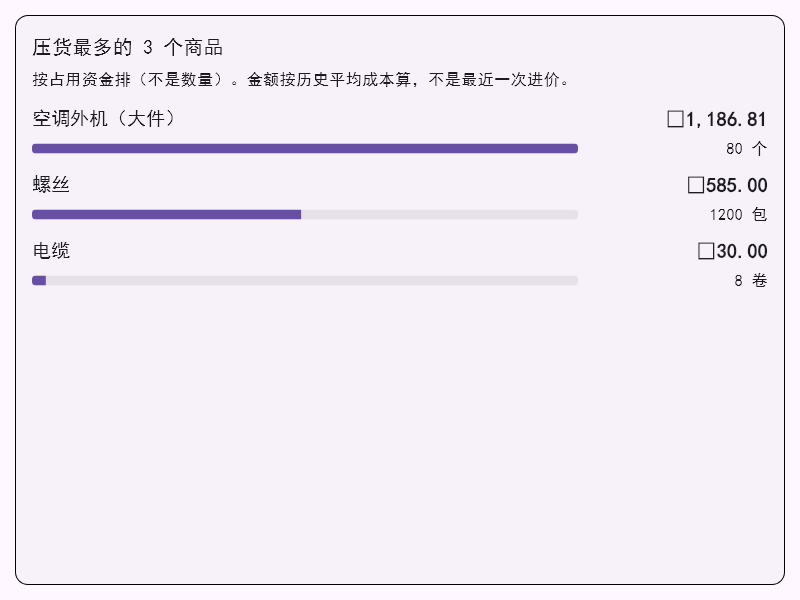
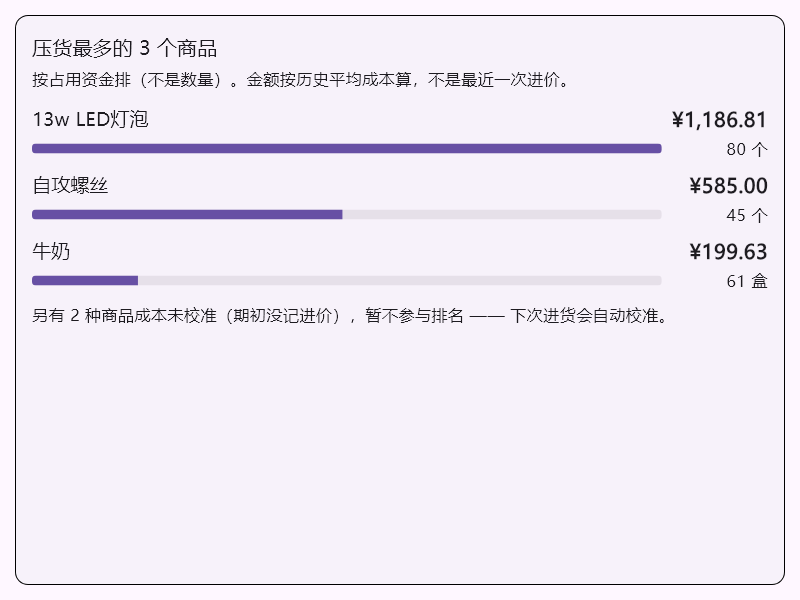
fix(ui): 压货榜金额折行（测量与渲染共用主题字体 + 单行兜底）

diff --git a/lib/src/ui/stock_top.dart b/lib/src/ui/stock_top.dart
@@ -54,6 +54,28 @@ class StockTopCard extends StatelessWidget {
     if (summary.isEmpty) return const SizedBox.shrink();
     final ThemeData theme = Theme.of(context);
     final List<StockValueRow> rows = summary.rows;
+    // ⚠ 2026-11-26 真机 bug：金额被折成两行（`¥1,186.` / `81`）。
+    // 根因是**测量用的字体不是渲染用的字体** —— `TextPainter` 没带
+    // `fontFamily`，用的是 Roboto 的度量，而真机主题是微软雅黑（更宽），
+    // 于是量出来的列宽比实际需要的小，`Text` 就换行了。
+    // 现在两个样式都从 `theme.textTheme` 派生（带 family），测量与渲染**同一份**。
+    final TextStyle amountStyle =
+        (theme.textTheme.bodyLarge ?? const TextStyle()).copyWith(
+          fontSize: 16,
+          fontWeight: FontWeight.w600,
+          height: 1.5,
+        );
+    final TextStyle quantityStyle =
+        (theme.textTheme.bodySmall ?? const TextStyle()).copyWith(
+          fontSize: 13,
+          height: 1.4,
+        );
+    final double trailingColumn = _trailingColumnWidth(
+      context,
+      rows,
+      amountStyle,
+      quantityStyle,
+    );
     final int maxValue = rows.isEmpty
         ? 0
         : rows
@@ -105,7 +127,9 @@ class StockTopCard extends StatelessWidget {
                   theme,
                   rows[i],
                   maxValue,
-                  _trailingColumnWidth(context, theme, rows),
+                  trailingColumn,
+                  amountStyle,
+                  quantityStyle,
                 ),
               ],
             ],
@@ -179,20 +203,11 @@ class StockTopCard extends StatelessWidget {
   /// 改成**测量出来的固定列宽**后，柱子在同一个 x 结束、柱长才可比。
   double _trailingColumnWidth(
     BuildContext context,
-    ThemeData theme,
     List<StockValueRow> rows,
+    TextStyle amountStyle,
+    TextStyle quantityStyle,
   ) {
     final TextScaler scaler = MediaQuery.textScalerOf(context);
-    final TextStyle amountStyle = const TextStyle(
-      height: 1.5,
-      fontSize: 16,
-      fontWeight: FontWeight.w600,
-    );
-    final TextStyle quantityStyle = TextStyle(
-      height: 1.4,
-      fontSize: 13,
-      color: theme.textTheme.bodySmall?.color,
-    );
     double measure(String text, TextStyle style) {
       final TextPainter painter = TextPainter(
         text: TextSpan(text: text, style: style),
@@ -225,6 +240,8 @@ class StockTopCard extends StatelessWidget {
     StockValueRow row,
     int maxValue,
     double trailingColumn,
+    TextStyle amountStyle,
+    TextStyle quantityStyle,
   ) {
     return Column(
       key: Key('overview-stock-top-${row.productId}'),
@@ -251,11 +268,12 @@ class StockTopCard extends StatelessWidget {
               child: Text(
                 '¥${Money.formatGrouped(row.valueCents)}',
                 textAlign: TextAlign.right,
-                style: const TextStyle(
-                  height: 1.5,
-                  fontSize: 16,
-                  fontWeight: FontWeight.w600,
-                ),
+                // 单行 + 不换行：列宽是按**同一份样式**量出来的，正常不会不够；
+                // 万一字体回退导致差几个像素，也宁可溢出 1 px，不要折成两行
+                //（真机 2026-11-26 就是这么坏的）。
+                maxLines: 1,
+                softWrap: false,
+                style: amountStyle,
               ),
             ),
           ],
@@ -280,11 +298,9 @@ class StockTopCard extends StatelessWidget {
               child: Text(
                 '${row.quantity} ${row.unit}',
                 textAlign: TextAlign.right,
-                style: TextStyle(
-                  height: 1.4,
-                  fontSize: 13,
-                  color: theme.textTheme.bodySmall?.color,
-                ),
+                maxLines: 1,
+                softWrap: false,
+                style: quantityStyle,
               ),
             ),
           ],

diff --git a/test/overview_page_test.dart b/test/overview_page_test.dart
@@ -1912,6 +1912,54 @@ void main() {
     );
   });
 
+  // 真机回归（2026-11-26）：金额被折成两行（`¥1,186.` / `81`）。
+  // 根因：`TextPainter` 测量时**没带 fontFamily**，用的是 Roboto 度量；
+  // 而真机主题是微软雅黑（更宽）⇒ 量出的列宽偏小 ⇒ `Text` 换行。
+  // 判据：金额文本的高度必须是**单行**高度（16px × 缩放 × 1.5），不是两行。
+  testWidgets('压货榜：金额不折行（2.0 档最容易折）', (WidgetTester tester) async {
+    tester.view.physicalSize = const Size(1200, 900);
+    tester.view.devicePixelRatio = 1.0;
+    tester.platformDispatcher.textScaleFactorTestValue = 2.0;
+    addTearDown(tester.view.reset);
+    addTearDown(tester.platformDispatcher.clearTextScaleFactorTestValue);
+
+    await tester.pumpWidget(
+      MaterialApp(
+        // 模拟真机：主题指定字体族（测试环境会回退，但测量与渲染必须用**同一族**）
+        theme: ThemeData(fontFamily: 'Microsoft YaHei'),
+        home: const Scaffold(
+          body: StockTopCard(
+            summary: StockTopSummary(
+              rows: <StockValueRow>[
+                StockValueRow(
+                  productId: 'big',
+                  name: '13w LED灯泡',
+                  unit: '个',
+                  quantity: 80,
+                  valueCents: 118681,
+                ),
+                StockValueRow(
+                  productId: 'mid',
+                  name: '自攻螺丝',
+                  unit: '个',
+                  quantity: 45,
+                  valueCents: 58500,
+                ),
+              ],
+              uncalibratedCount: 0,
+              negativeCostCount: 0,
+            ),
+          ),
+        ),
+      ),
+    );
+    await tester.pumpAndSettle();
+
+    final Size money = tester.getSize(find.text('¥1,186.81'));
+    // 单行高度 = 16 × 2.0 × 1.5 = 48；折成两行会接近 96。
+    expect(money.height, lessThan(70), reason: '金额折行了 —— 列宽必须按**渲染用的同一份样式**测量');
+  });
+
   // ------------------------------------------------------------ 宽屏上限（2026-11-24 批 B·1）
   //
   // 用户 1916×790 实测：内容铺满整条工作区，视线要左右来回。
